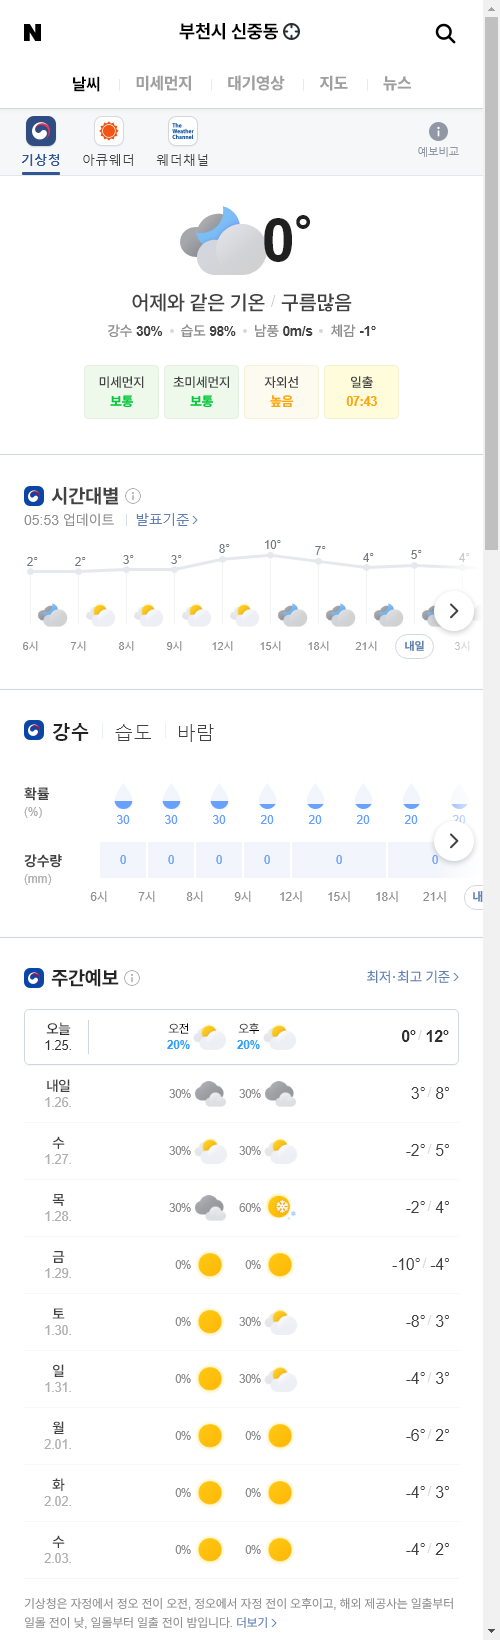
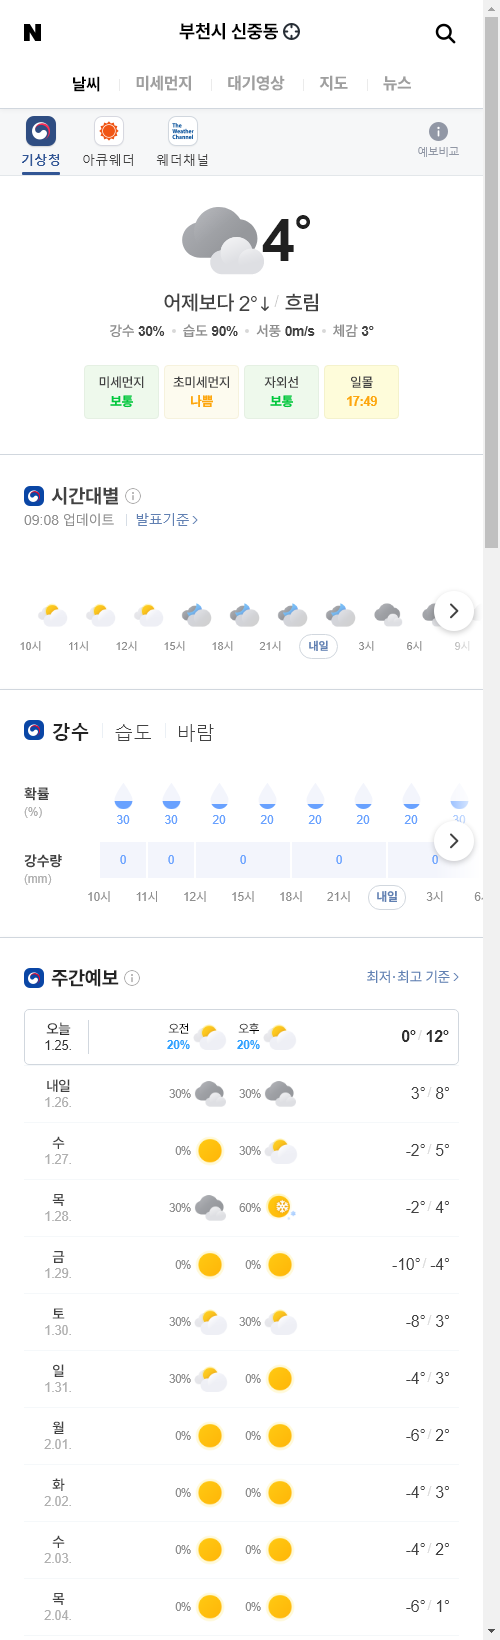
update result

diff --git a/README.md b/README.md
@@ -1,5 +1,5 @@
-##  2021-01-25 05:54:40   월요일 
-##### 날씨   -   어제와 같은 기온구름많음  
+##  2021-01-25 09:16:56   월요일 
+##### 날씨   -   어제보다 2° 낮아요흐림  
 <center><img src="../img/naver_weather_week.png"></center>
 ----
 ----
@@ -23,7 +23,7 @@
 ##### 시장
 <table border="1" bordercolor="blue" align = "center" >
 <tr align = "right" > <td>Item</td><td>Price</td><td>Diff</td><td>Rate</td><td>Buy</td><td>Sell</td><td>...</td>  </tr>
-<tr align = "right" > <td>USD</td><td>1,105.0</td><td>4.0</td><td><font size="3" color="red">0.36%</font></td><td><font size="3" color="orangered">1,110</font></td><td><font size="3" color="black">0</font></td><td>0</td>  </tr>
+<tr align = "right" > <td>USD</td><td>1,104.0</td><td>-0.7</td><td><font size="3" color="blue">-0.06%</font></td><td><font size="3" color="orangered">1,110</font></td><td><font size="3" color="black">0</font></td><td>0</td>  </tr>
 <tr align = "right" > <td>WTI</td><td>52.27</td><td>-0.86</td><td><font size="3" color="blue">-1.61%</font></td><td><font size="3" color="black">29.0</font></td><td><font size="3" color="black">0</font></td><td>0</td>  </tr>
 <tr align = "right" > <td>GOLD</td><td>1,856.0</td><td>-9.7</td><td><font size="3" color="blue">-0.51%</font></td><td><font size="3" color="black">0</font></td><td><font size="3" color="black">0</font></td><td>0</td>  </tr>
 </table>
@@ -31,25 +31,25 @@
 ##### 주가
 <table border="1" bordercolor="blue" align = "center" >
 <tr align = "right" > <td>Item</td><td>Price</td><td>Diff</td><td>Rate</td><td>Purchased</td><td>Sell</td><td>Buy</td>  </tr>
-<tr align = "right" > <td>한국 전력</td><td>24,150</td><td>-500</td><td><font size="3" color="blue">-2.03%</font></td><td>25,720</td><td><font size="3" color="black">27,700</font></td><td><font size="3" color="black">20,700</font></td>  </tr>
-<tr align = "right" > <td>삼성엔지니어.</td><td>13,350</td><td>-150</td><td><font size="3" color="blue">-1.11%</font></td><td>18,935</td><td><font size="3" color="black">20,000</font></td><td><font size="3" color="black">8,000</font></td>  </tr>
-<tr align = "right" > <td>CJ CGV</td><td>28,700</td><td>600</td><td><font size="3" color="red">2.14%</font></td><td>34,895</td><td><font size="3" color="black">36,000</font></td><td><font size="3" color="black">0</font></td>  </tr>
-<tr align = "right" > <td>아모레퍼시픽</td><td>238,000</td><td>6,500</td><td><font size="3" color="red">2.81%</font></td><td>235,350</td><td><font size="3" color="black">240,000</font></td><td><font size="3" color="black">130,000</font></td>  </tr>
-<tr align = "right" > <td>한화</td><td>34,500</td><td>-1,650</td><td><font size="3" color="blue">-4.56%</font></td><td>25,550</td><td><font size="3" color="black">26,250</font></td><td><font size="3" color="black">26,250</font></td>  </tr>
-<tr align = "right" > <td>NAVER</td><td>343,500</td><td>21,000</td><td><font size="3" color="red">6.51%</font></td><td>147,200</td><td><font size="3" color="black">386,000</font></td><td><font size="3" color="black">286,000</font></td>  </tr>
-<tr align = "right" > <td>LG 화학우</td><td>494,000</td><td>-5,000</td><td><font size="3" color="blue">-1.0%</font></td><td>202,490</td><td><font size="3" color="black">384,000</font></td><td><font size="3" color="black">384,000</font></td>  </tr>
-<tr align = "right" > <td>스튜디오드래.</td><td>109,200</td><td>3,400</td><td><font size="3" color="red">3.21%</font></td><td>81,243</td><td><font size="3" color="black">85,200</font></td><td><font size="3" color="black">85,200</font></td>  </tr>
-<tr align = "right" > <td>QV미국IT</td><td>25,870</td><td>100</td><td><font size="3" color="red">0.39%</font></td><td>0</td><td><font size="3" color="black">30,000</font></td><td><font size="3" color="black">20,000</font></td>  </tr>
-<tr align = "right" > <td>삼성 전자우</td><td>77,600</td><td>0</td><td><font size="3" color="black">0.0%</font></td><td>48,250</td><td><font size="3" color="black">56,000</font></td><td><font size="3" color="black">45,000</font></td>  </tr>
-<tr align = "right" > <td>LS</td><td>75,500</td><td>-400</td><td><font size="3" color="blue">-0.53%</font></td><td>71,400</td><td><font size="3" color="black">82,000</font></td><td><font size="3" color="black">60,000</font></td>  </tr>
-<tr align = "right" > <td>한화에어로스.</td><td>39,900</td><td>-2,200</td><td><font size="3" color="blue">-5.23%</font></td><td>25,700</td><td><font size="3" color="black">30,000</font></td><td><font size="3" color="black">24,000</font></td>  </tr>
-<tr align = "right" > <td>카카오</td><td>463,000</td><td>9,000</td><td><font size="3" color="red">1.98%</font></td><td>405,500</td><td><font size="3" color="black">440,000</font></td><td><font size="3" color="black">400,000</font></td>  </tr>
-<tr align = "right" > <td>호텔 신라</td><td>88,100</td><td>2,600</td><td><font size="3" color="red">3.04%</font></td><td>72,800</td><td><font size="3" color="black">100,000</font></td><td><font size="3" color="black">70,000</font></td>  </tr>
-<tr align = "right" > <td>S-Oil</td><td>73,000</td><td>-900</td><td><font size="3" color="blue">-1.22%</font></td><td>62,842</td><td><font size="3" color="black">100,000</font></td><td><font size="3" color="black">50,000</font></td>  </tr>
-<tr align = "right" > <td>LG전자</td><td>177,500</td><td>-7,500</td><td><font size="3" color="blue">-4.05%</font></td><td>82,022</td><td><font size="3" color="black">100,000</font></td><td><font size="3" color="black">60,000</font></td>  </tr>
-<tr align = "right" > <td>지역난방공사</td><td>39,300</td><td>300</td><td><font size="3" color="red">0.77%</font></td><td>43,590</td><td><font size="3" color="black">60,000</font></td><td><font size="3" color="black">30,000</font></td>  </tr>
-<tr align = "right" > <td>KOEDX은행</td><td>6,370</td><td>-95</td><td><font size="3" color="blue">-1.47%</font></td><td>5,178</td><td><font size="3" color="black">6,225</font></td><td><font size="3" color="black">6,225</font></td>  </tr>
-<tr align = "right" > <td>글로벌럭셔리</td><td>15,280</td><td>50</td><td><font size="3" color="red">0.33%</font></td><td>15,260</td><td><font size="3" color="black">20,000</font></td><td><font size="3" color="black">10,000</font></td>  </tr>
-<tr align = "right" > <td>한국금융지주</td><td>86,800</td><td>-600</td><td><font size="3" color="blue">-0.69%</font></td><td>0</td><td><font size="3" color="black">82,000</font></td><td><font size="3" color="black">60,000</font></td>  </tr>
+<tr align = "right" > <td>한국 전력</td><td>24,250</td><td>100</td><td><font size="3" color="red">0.41%</font></td><td>25,720</td><td><font size="3" color="black">27,700</font></td><td><font size="3" color="black">20,700</font></td>  </tr>
+<tr align = "right" > <td>삼성엔지니어.</td><td>13,550</td><td>200</td><td><font size="3" color="red">1.5%</font></td><td>18,935</td><td><font size="3" color="black">20,000</font></td><td><font size="3" color="black">8,000</font></td>  </tr>
+<tr align = "right" > <td>CJ CGV</td><td>29,000</td><td>300</td><td><font size="3" color="red">1.05%</font></td><td>34,895</td><td><font size="3" color="black">36,000</font></td><td><font size="3" color="black">0</font></td>  </tr>
+<tr align = "right" > <td>아모레퍼시픽</td><td>235,500</td><td>-2,500</td><td><font size="3" color="blue">-1.05%</font></td><td>235,350</td><td><font size="3" color="black">240,000</font></td><td><font size="3" color="black">130,000</font></td>  </tr>
+<tr align = "right" > <td>한화</td><td>34,550</td><td>50</td><td><font size="3" color="red">0.14%</font></td><td>25,550</td><td><font size="3" color="black">26,250</font></td><td><font size="3" color="black">26,250</font></td>  </tr>
+<tr align = "right" > <td>NAVER</td><td>347,500</td><td>4,000</td><td><font size="3" color="red">1.16%</font></td><td>147,200</td><td><font size="3" color="black">386,000</font></td><td><font size="3" color="black">286,000</font></td>  </tr>
+<tr align = "right" > <td>LG 화학우</td><td>493,000</td><td>-1,000</td><td><font size="3" color="blue">-0.2%</font></td><td>202,490</td><td><font size="3" color="black">384,000</font></td><td><font size="3" color="black">384,000</font></td>  </tr>
+<tr align = "right" > <td>스튜디오드래.</td><td>107,000</td><td>-2,200</td><td><font size="3" color="blue">-2.01%</font></td><td>81,243</td><td><font size="3" color="black">85,200</font></td><td><font size="3" color="black">85,200</font></td>  </tr>
+<tr align = "right" > <td>QV미국IT</td><td>26,145</td><td>275</td><td><font size="3" color="red">1.06%</font></td><td>0</td><td><font size="3" color="black">30,000</font></td><td><font size="3" color="black">20,000</font></td>  </tr>
+<tr align = "right" > <td>삼성 전자우</td><td>77,700</td><td>100</td><td><font size="3" color="red">0.13%</font></td><td>48,250</td><td><font size="3" color="black">56,000</font></td><td><font size="3" color="black">45,000</font></td>  </tr>
+<tr align = "right" > <td>LS</td><td>74,900</td><td>-600</td><td><font size="3" color="blue">-0.79%</font></td><td>71,400</td><td><font size="3" color="black">82,000</font></td><td><font size="3" color="black">60,000</font></td>  </tr>
+<tr align = "right" > <td>한화에어로스.</td><td>40,100</td><td>200</td><td><font size="3" color="red">0.5%</font></td><td>25,700</td><td><font size="3" color="black">30,000</font></td><td><font size="3" color="black">24,000</font></td>  </tr>
+<tr align = "right" > <td>카카오</td><td>467,500</td><td>4,500</td><td><font size="3" color="red">0.97%</font></td><td>405,500</td><td><font size="3" color="black">440,000</font></td><td><font size="3" color="black">400,000</font></td>  </tr>
+<tr align = "right" > <td>호텔 신라</td><td>88,200</td><td>100</td><td><font size="3" color="red">0.11%</font></td><td>72,800</td><td><font size="3" color="black">100,000</font></td><td><font size="3" color="black">70,000</font></td>  </tr>
+<tr align = "right" > <td>S-Oil</td><td>73,500</td><td>500</td><td><font size="3" color="red">0.68%</font></td><td>62,842</td><td><font size="3" color="black">100,000</font></td><td><font size="3" color="black">50,000</font></td>  </tr>
+<tr align = "right" > <td>LG전자</td><td>177,000</td><td>-500</td><td><font size="3" color="blue">-0.28%</font></td><td>82,022</td><td><font size="3" color="black">100,000</font></td><td><font size="3" color="black">60,000</font></td>  </tr>
+<tr align = "right" > <td>지역난방공사</td><td>39,000</td><td>-300</td><td><font size="3" color="blue">-0.76%</font></td><td>43,590</td><td><font size="3" color="black">60,000</font></td><td><font size="3" color="black">30,000</font></td>  </tr>
+<tr align = "right" > <td>KOEDX은행</td><td>6,325</td><td>-45</td><td><font size="3" color="blue">-0.71%</font></td><td>5,178</td><td><font size="3" color="black">6,225</font></td><td><font size="3" color="black">6,225</font></td>  </tr>
+<tr align = "right" > <td>글로벌럭셔리</td><td>15,310</td><td>30</td><td><font size="3" color="red">0.2%</font></td><td>15,260</td><td><font size="3" color="black">20,000</font></td><td><font size="3" color="black">10,000</font></td>  </tr>
+<tr align = "right" > <td>한국금융지주</td><td>86,500</td><td>-300</td><td><font size="3" color="blue">-0.35%</font></td><td>0</td><td><font size="3" color="black">82,000</font></td><td><font size="3" color="black">60,000</font></td>  </tr>
 </table>
 ----
